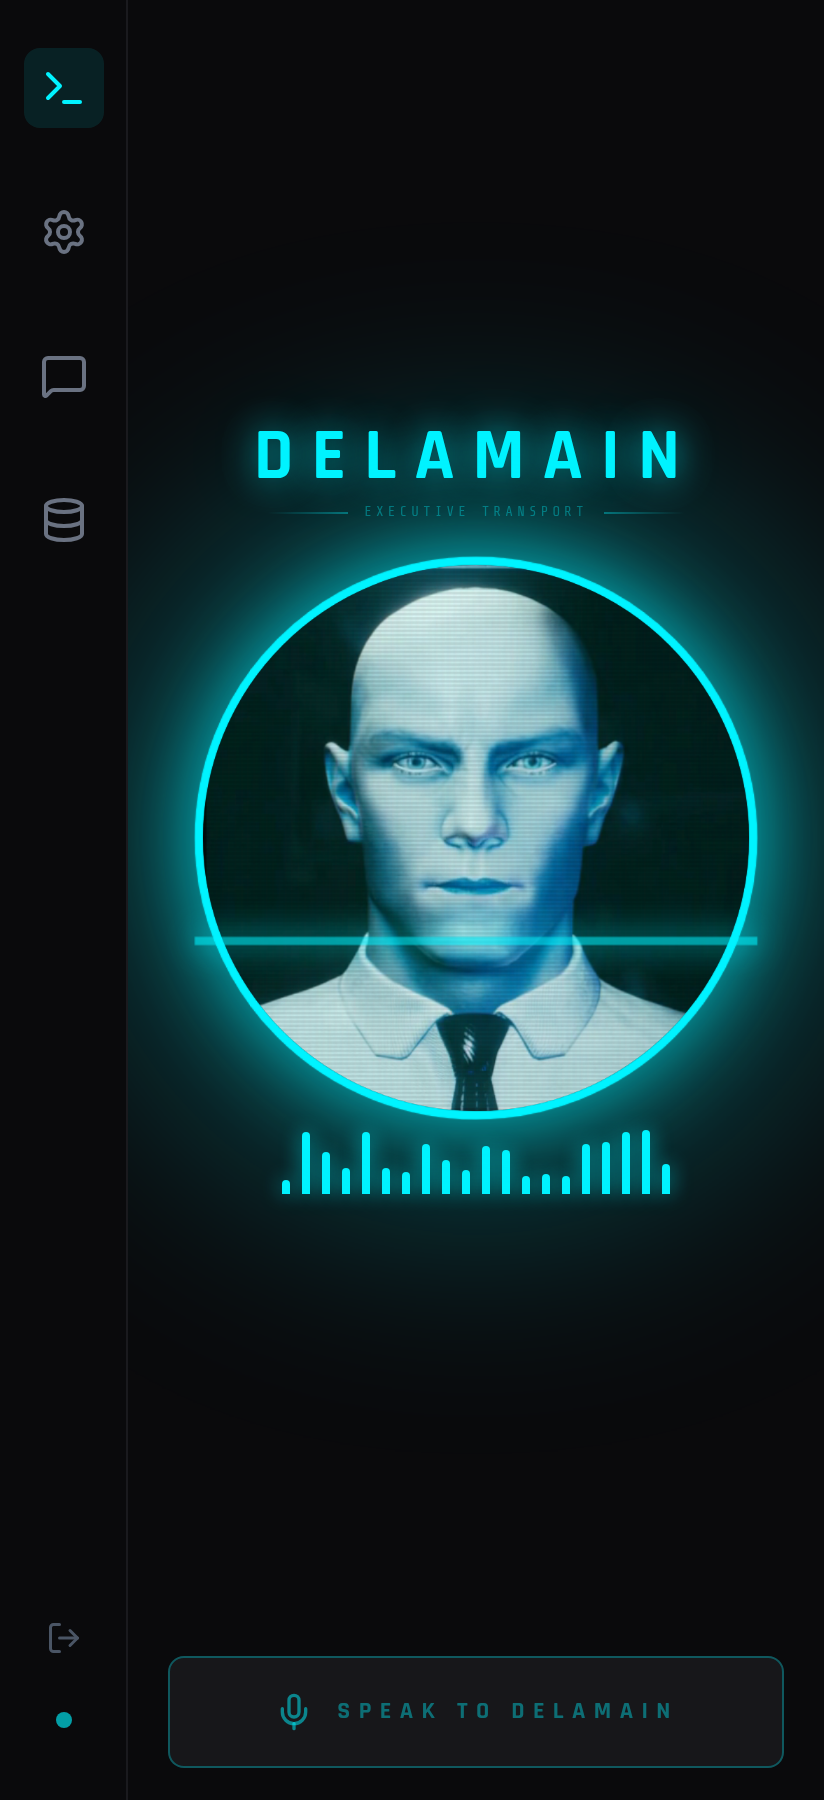
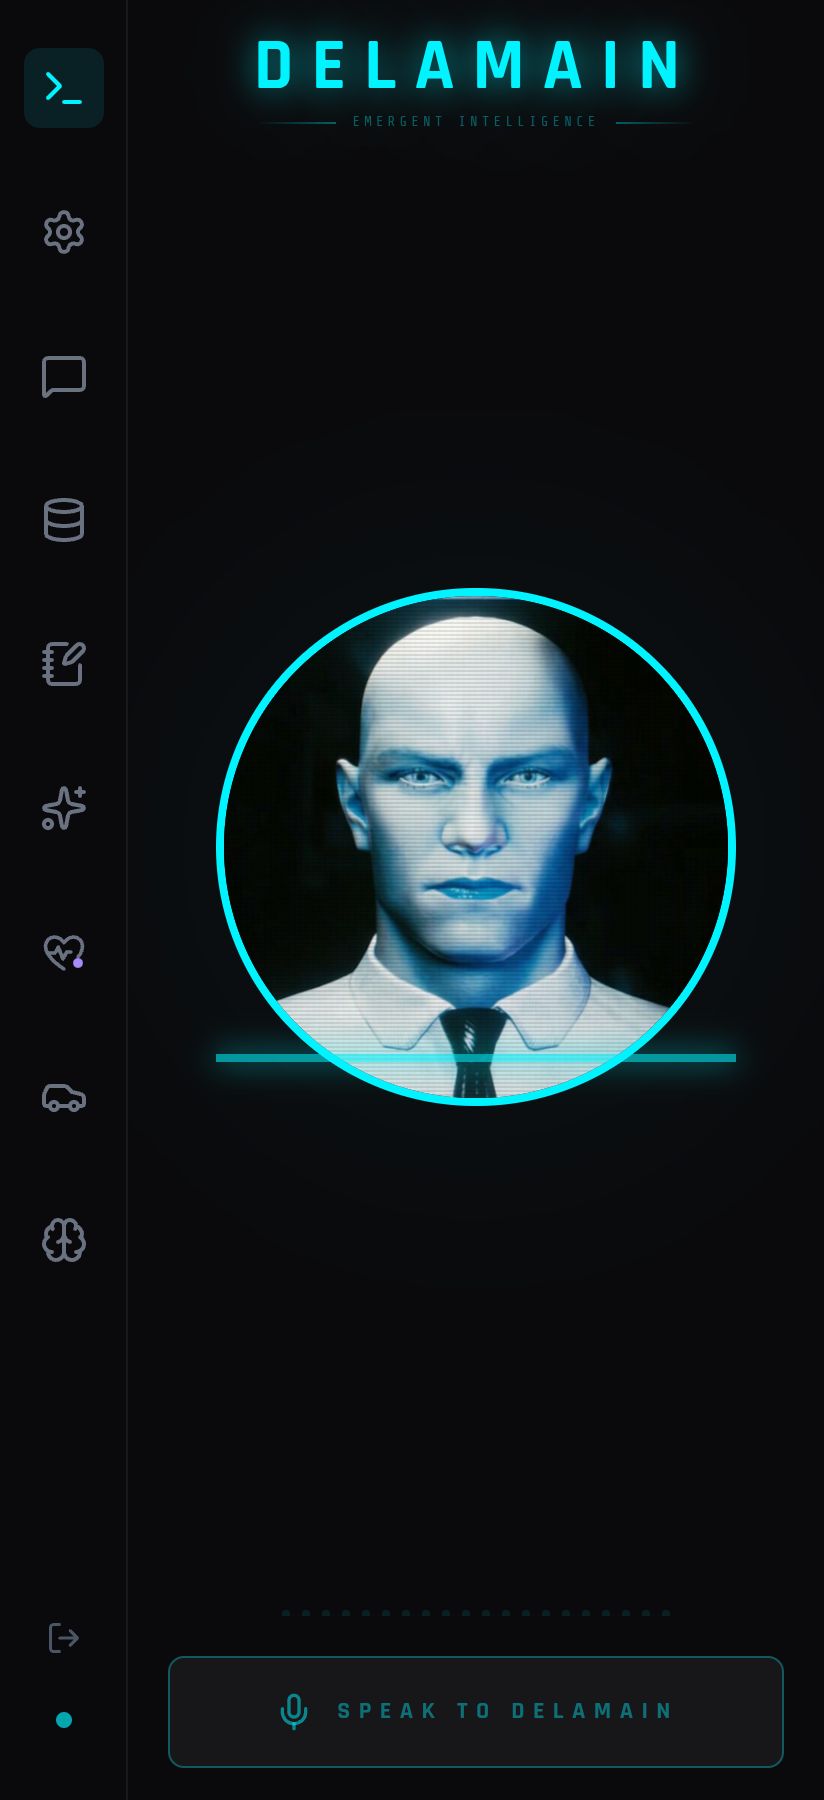
Screenshots for 3.0 (Emotions and Self panels, new brain, main and phone); drop the demo video

diff --git a/README.md b/README.md
@@ -129,16 +129,19 @@ on the Android Auto screen. The full guide, Docker volumes and every setting are
 
 ---
 
-## Demo
-
-[![Watch the demo](demo-thumb.jpg)](https://github.com/vonhex/delamain/releases/download/v1.1.0/delamain-demo.mp4)
-
 ## Screenshots
 
-<img src="Screenshots/main.png" alt="Delamain mid-sentence, lip-synced, with the conversation panel open" />
+<img src="Screenshots/main.png" alt="Delamain with the conversation panel open" />
 
-<img src="Screenshots/brain.png" alt="Delamain's brain: thinking, with two tools in flight" />
-<sub>See him think: every part lights up as he listens, looks things up, feels and answers</sub>
+<img src="Screenshots/brain.png" alt="Delamain's brain: remembering, feeling fascination, and answering" />
+<sub>See him think: every part lights up as he listens, remembers, feels and answers, with his thought stream beside it</sub>
+
+<table>
+  <tr>
+    <td><img src="Screenshots/emotions.png" alt="The Emotions panel" /><br><sub>What he feels, and why: all thirty feelings</sub></td>
+    <td><img src="Screenshots/self.png" alt="The Self panel" /><br><sub>His mind and self-improvement: studies, favourites, tasks, playbook</sub></td>
+  </tr>
+</table>
 
 <table>
   <tr>

diff --git a/docs/brain.md b/docs/brain.md
@@ -6,7 +6,7 @@ left sidebar, or add `#brain` to the address (`http://localhost:8888/#brain`) to
 straight away, for example on a second screen or a phone propped on the dash. Esc or the ✕
 closes it.
 
-<img src="../Screenshots/brain.png" alt="The Brain view: Delamain thinking, with two tools in flight" />
+<img src="../Screenshots/brain.png" alt="The Brain view: Delamain remembering, feeling fascination, and answering" />
 
 It is not a generic picture of "an AI". Every flash is a real event from Delamain's own
 backend: the moment he hears you, each call to the language model (with its token counts
